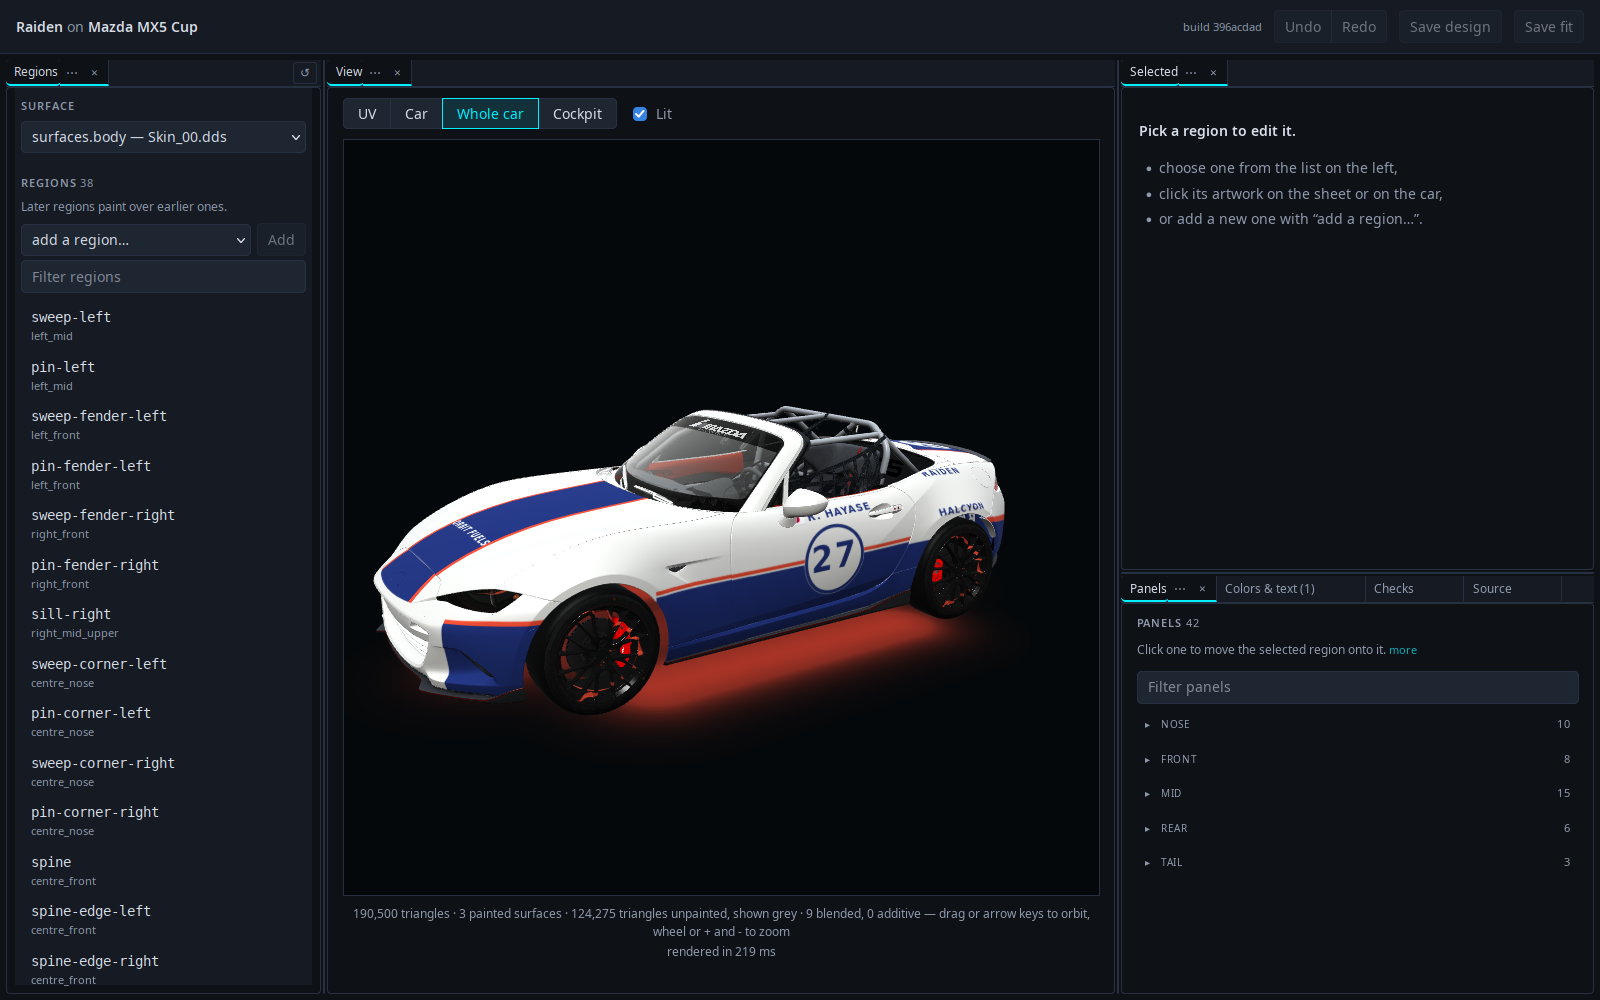
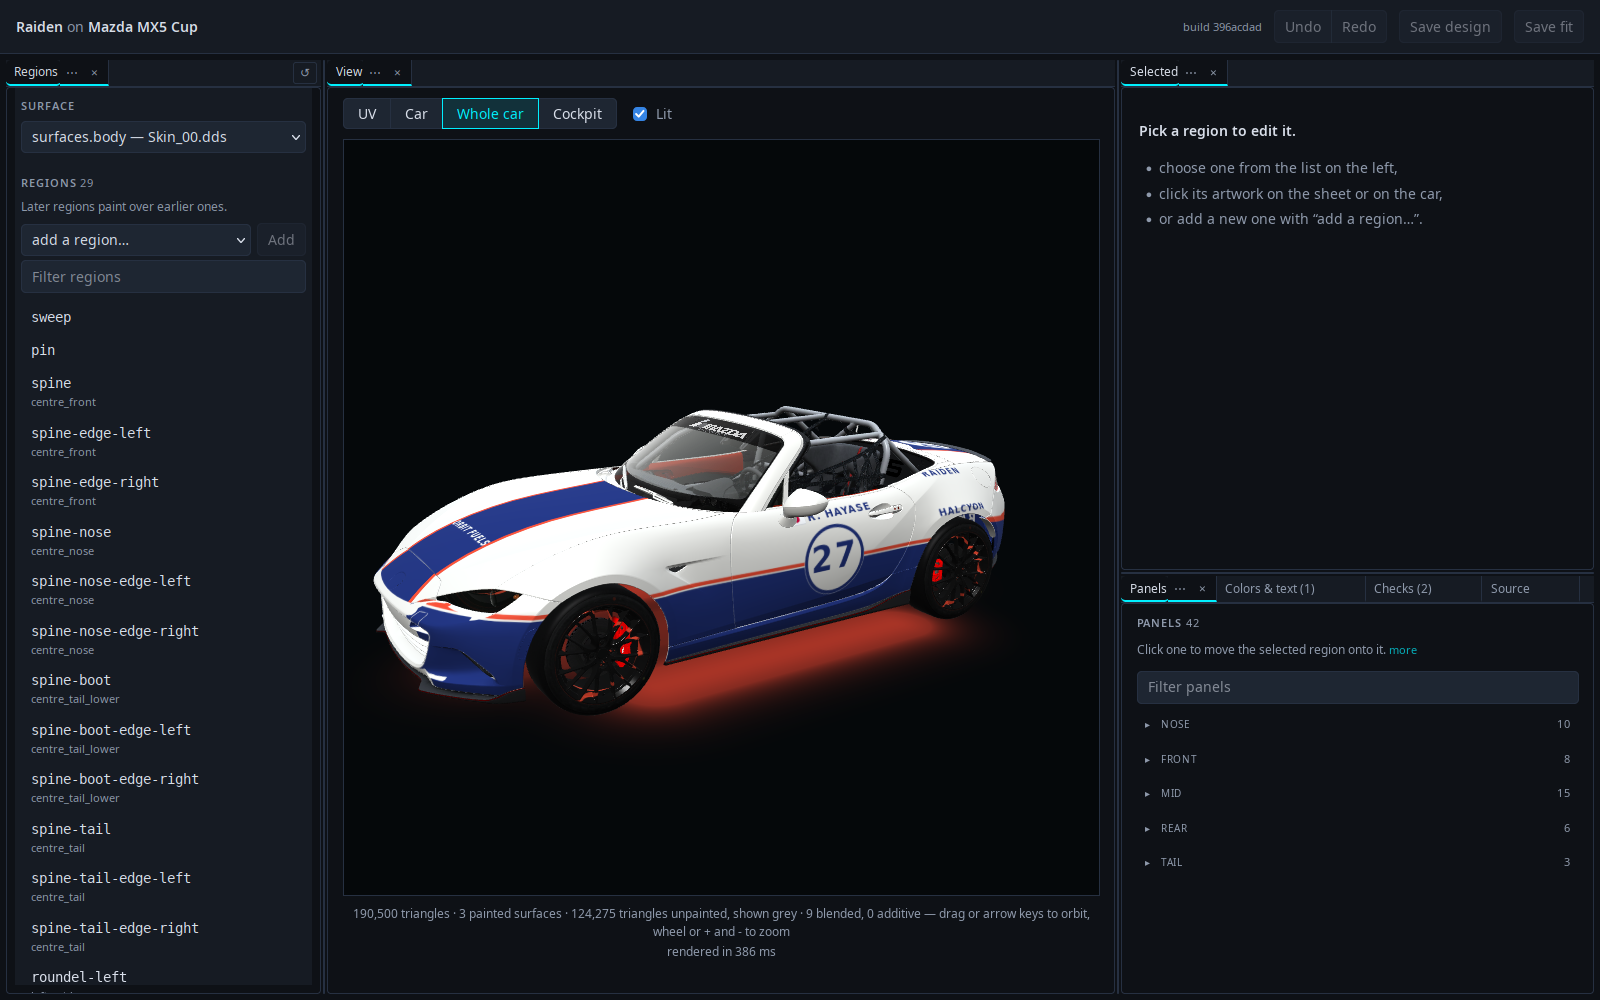
Draw a band region, and Raiden's sweep as two of them
A region may now say band in place of panel, tags and at: heights on
the car as fractions of the surface's own height, a rear pair to tilt
along a bodyline, and a side. The renderer draws its treatment across
the sheet clipped to the band's texels, as one path, since drawn a
triangle at a time the pieces leave hairlines where their edges
antialias. The build and the editor hand it the model, read only for a
design that has a band; without one, a band is said not to be drawn.
A band with a panel, tags or span is refused, as is lettering or a
decal on one, which need a panel to read on. The fitment check knows
the field and names a band as not measured yet, rather than judging it
as a box over the whole sheet.

Raiden's sweep on the MX5 was thirteen hand-placed regions across the
doors, quarters, fenders, a sill and the nose's corners; it is two now.
Its end round a bumper's corner stepped a triangle at a time, so where
the surface turns away is cut on the smoothed vertex normals as a third
plane.

diff --git a/docs/guide.md b/docs/guide.md
@@ -546,6 +546,26 @@ the region is drawn and measured inside:
 Any region can have one. Because it is relative to `at`, moving the region moves
 its shape with it.
 
+Or say the band itself and let the model find it, every time it is drawn:
+
+```js
+{ id: 'sweep', treatment: 'fill', band: { height: [0, 0.345] }, color: 'indigo' },
+{ id: 'pin', treatment: 'fill', band: { height: [0.353, 0.371] }, color: 'vermilion' },
+```
+
+`band` takes the place of `panel`, `tags` and `at`. Its heights are fractions of
+the painted surface's own height, lowest point to highest, so they mean the same
+on a coupe and an open car. `rear` gives the heights at the rear end and the band
+tilts between the two, to follow a bodyline; without it the band is level. `side`
+is `left`, `right` or `both`, the default, and a surface counts as on a side where
+it faces within 75 degrees of sideways and looks out from that half of the car, so
+a band goes on round a bumper's corner and not onto the bonnet. Every triangle of
+the surface is clipped between the two heights, so the band lands exactly, across
+however many islands the car splits its flank into. It needs the car's model:
+without it the region is said not to be drawn. Lettering and decals need a panel
+to read on and are refused on a band, and the fitment check does not measure
+bands yet. This is how Raiden's sweep is drawn on the MX5.
+
 ### Saying what a region needs
 
 Placement rules say where artwork goes. Constraints say what it needs wherever it
